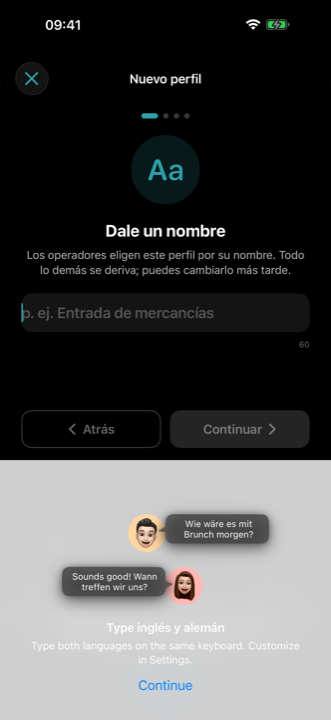
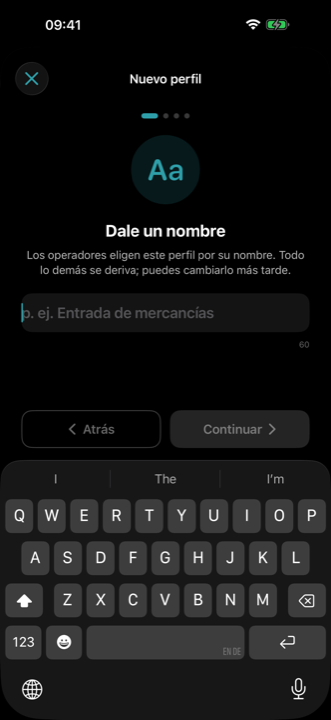
docs(screenshots): die Admin-Bilder stammen aus einem Lauf, der vier Sprachen kann
Die Bilder auf der Admin-Seite waren bis eben aus dem Lauf davor - dem, der
in drei von vier Sprachen unvollstaendig blieb. Der Grund lag in der App, und
er ist jetzt behoben: Der Aufnahme-Walk bediente den Broker-Assistenten ueber
die englische Beschriftung "Continue". Auf Deutsch, Franzoesisch und Spanisch
traegt der Knopf dieses Label nicht - der Walk starb dort, und alles danach
fiel aus. Weil einer der verlorenen Screens im Store-Manifest steht, wurden
gleich die kompletten Sprachsaetze verworfen und nur Englisch blieb uebrig.
Das, nicht ein Kopierfehler, ist die Wurzel des "ueberall englisch", das
diese Website zeigte.

Die Bilder hier sind aus dem korrigierten Lauf neu gezogen: 38 Screens je
Sprache, identische Namensmengen, nachweislich verschiedene Dateien. Eines
der sechs Bilder dieser Seite - die vollstaendige Pruefung vor dem
Publizieren - entsteht in de/fr/es ueberhaupt zum ersten Mal korrekt.

diff --git a/CHANGELOG.md b/CHANGELOG.md
@@ -20,6 +20,24 @@ Convention: for privacy-relevant edits, record **all three language variants** a
 
 ## 2026-08-29 (later)
 
+### Changed — every Admin screenshot rebuilt from a run that finally works in four languages
+
+The Admin walk navigated the broker wizard by the **English label**
+`"Continue"`. In German, French and Spanish that button has no such label, so
+the walk died there and everything after it was lost — five screens, three
+languages. One of the lost screens sits in the store manifest, which is why
+the whole German, French and Spanish store sets were discarded and only
+English survived. That, not a copy mistake, is the origin of the "English
+everywhere" the site showed.
+
+Fixed at the root in the app repos (identifiers instead of labels), and the
+site's images are re-synced from the new run: 38 screens per language,
+identical name sets, genuinely different files. `14-wizard-full-review` —
+one of the six images this site embeds — exists correctly in German, French
+and Spanish for the first time.
+
+## 2026-08-29 (later)
+
 ### Fixed — the Viewer screenshots were English on the German and French pages
 
 `viewer-ios-karte`, `viewer-ios-feed` and `viewer-ipad-karte` were
